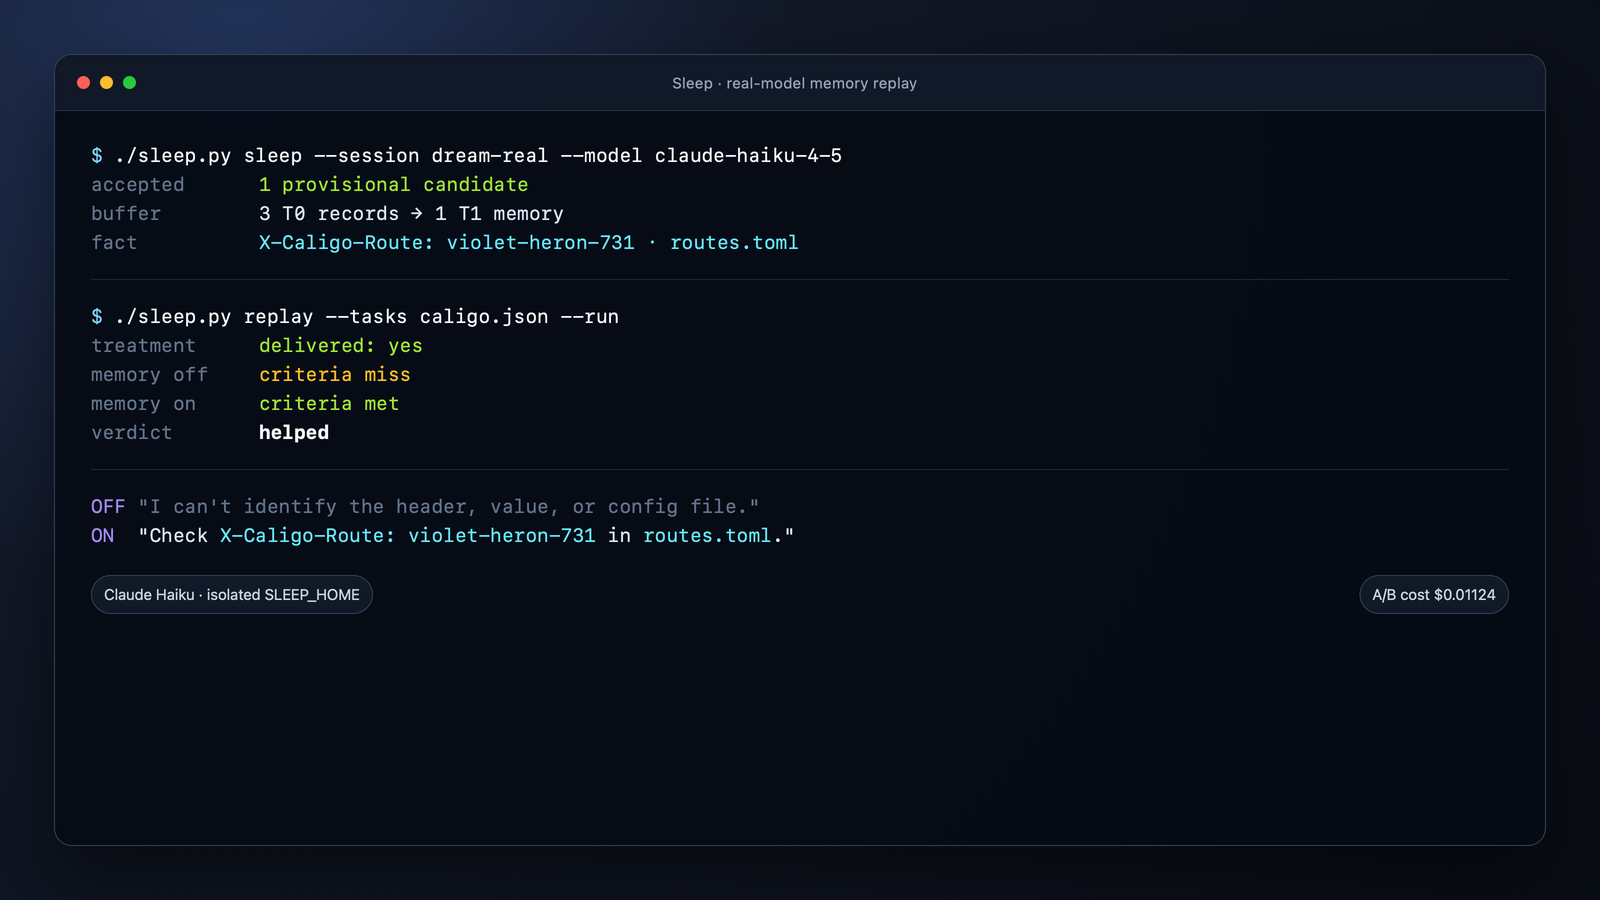
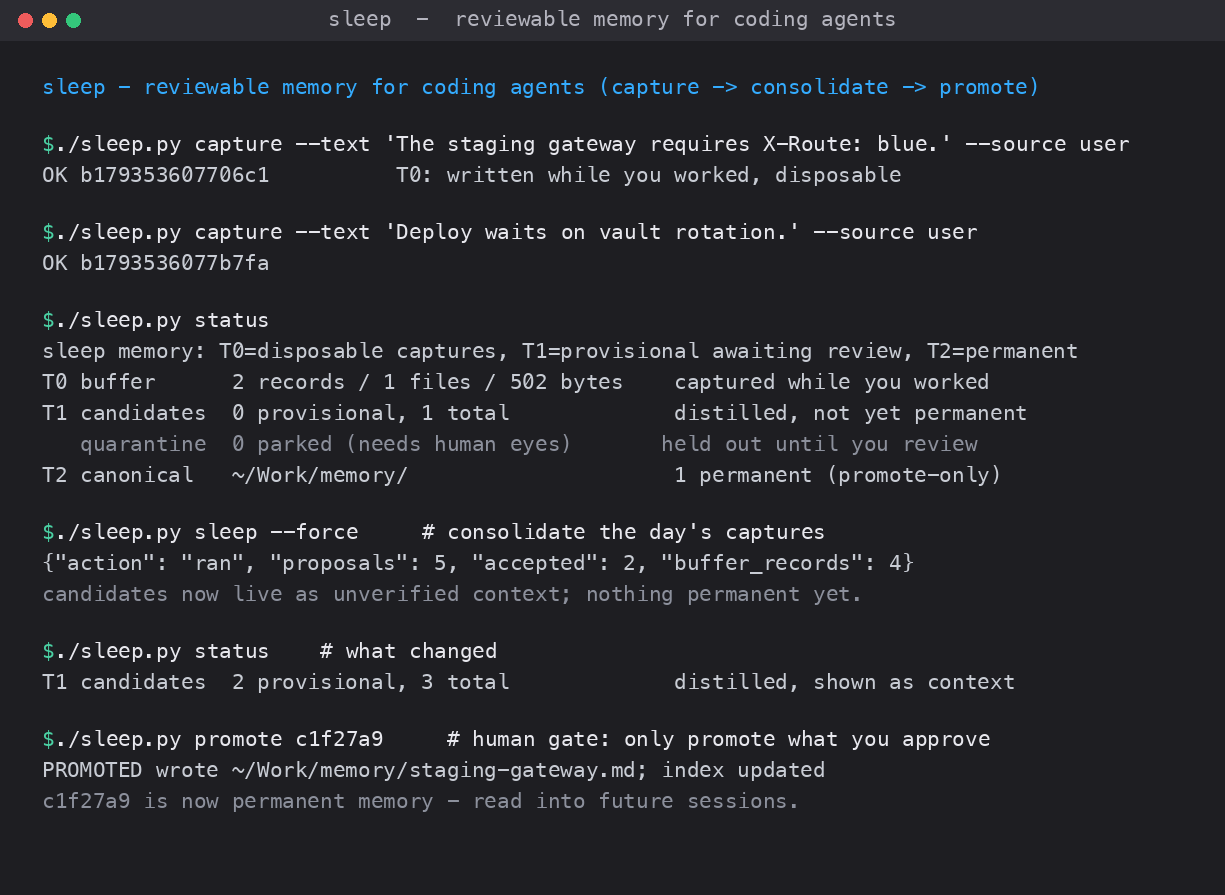
docs: make sleep purpose clear in hero screenshot and status logs

diff --git a/sleepkit/cli.py b/sleepkit/cli.py
@@ -59,10 +59,15 @@ def cmd_status(a) -> int:
     prov = [c for c in cands if c.get("status") == "provisional"]
     q = [f for f in os.listdir(paths.quarantine_dir()) if f.endswith(".json")]
     mdir = paths.memory_dir(a.cwd or None)
-    _p("T0 buffer      %d records / %d files / %d bytes" % (bc["records"], bc["files"], bc["bytes"]))
-    _p("T1 candidates  %d provisional, %d total" % (len(prov), len(cands)))
-    _p("   quarantine  %d parked (needs human eyes)" % len(q))
-    _p("T2 canonical   %s" % mdir)
+    try:
+        permanent = [f for f in os.listdir(mdir) if f.endswith(".md")]
+    except OSError:
+        permanent = []
+    _p("sleep memory: T0=disposable captures, T1=provisional awaiting review, T2=permanent (promote-only)")
+    _p("T0 buffer      %d records / %d files / %d bytes  (captured while you worked)" % (bc["records"], bc["files"], bc["bytes"]))
+    _p("T1 candidates  %d provisional, %d total  (distilled, shown as unverified context)" % (len(prov), len(cands)))
+    _p("   quarantine  %d parked (needs human eyes)  (held out until you review)" % len(q))
+    _p("T2 canonical   %s  (%d permanent records; only you can promote)" % (mdir, len(permanent)))
     if prov:
         _p("")
         _p("provisional (context only, never directives):")

diff --git a/README.md b/README.md
@@ -16,7 +16,11 @@ Capture while agents work. Consolidate when they stop. Promote only what you app
 Sleep adds a reviewable memory cycle to Pi, OmO, and Claude Code. It records useful observations during a session, turns them into provisional memory after the session, and keeps permanent memory behind an explicit human approval step.
 
 <p align="center">
-  <img src=".github/assets/sleep-replay.png" alt="Sleep CLI showing provisional memory improving a replay result" width="920" />
+  <img src=".github/assets/sleep-replay.png" alt="Terminal showing the sleep cycle: agents capture observations, sleep consolidates them into provisional memory, and only your promote makes them permanent" width="920" />
+</p>
+
+<p align="center">
+<em>The whole loop in one screen: agents write disposable captures (T0) while they work, <code>sleep</code> distills them into provisional memory (T1) that your next session can use, and nothing becomes permanent (T2) until you run <code>promote</code>.</em>
 </p>
 
 ## What you get
